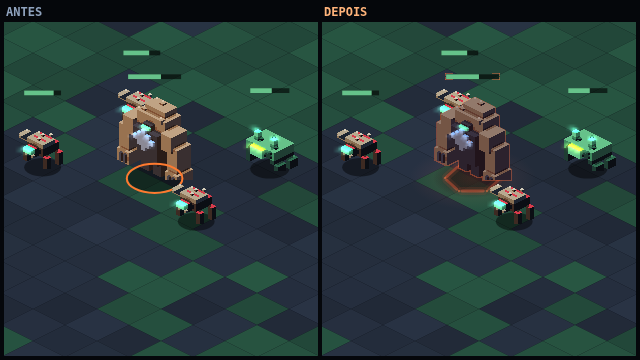
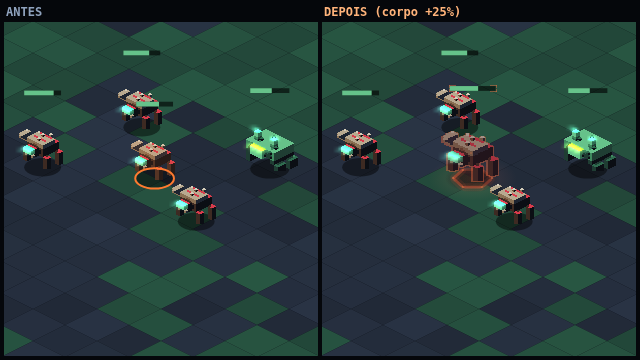
Elite com o corpo 25% maior
Silhueta maior e a leitura que chega ANTES da cor: pela borda do campo de
visao, com o bicho meio atras de uma coluna, antes de qualquer brasa
aparecer. E contra um bando do mesmo arquetipo — que e onde o elite quase
sempre esta — um corpo destoando de tamanho e o sinal mais barato que
existe.

Cresce so o CORPO: a sombra de contato e o hexagono no chao continuam no
tamanho do pe, porque o raio na simulacao nao mudou, e inchar a marca
junto faria ela prometer um alcance de contato que a simulacao nao cobra.
O que mora em cima do bicho — barra de vida e atordoamento — sobe com o
corpo, senao a barra atravessaria a cabeca do elite. O recuo de voxel
cresce pelo mesmo fator: um elite que muda de tamanho conforme o atlas
chegou seria a mesma incoerencia que a marca tracejada de antes.

O custo, registrado no codigo e no doc: 1,25 nao e inteiro, entao no zoom
2x o sprite do elite deixa de cair 1:1 na tela — alguns pixels de atlas
viram dois e outros um. E a unica coisa do jogo fora da grade de pixel, e
vale por ser uma entidade rara por setor; o degrau seguinte que preserva
a grade e 2x, grande demais para "elite".

O teste que ancora a guarda de `usesMonumentalBar` procurava a chamada da
barra pela expressao inteira do topo dela, que mudou com o corpo maior.
Passa a ancorar so no comeco da chamada: o que ele protege e a guarda em
volta, nao a conta que levanta a barra.

Claude-Session: https://claude.ai/code/session_01RJ5bdc3Wq4H9TobxteMHtW

diff --git a/packages/voxelyn-survival/src/client/render.ts b/packages/voxelyn-survival/src/client/render.ts
@@ -194,6 +194,7 @@ import { bossModuleNameKey, bossModulePresentation } from './boss-module-present
 import { DIAMANDIS_LINES, diamandisLineFor } from './audio/boss-voice-lines';
 import { drawGroundShadow, drawVoxel, type FaceRamp } from './voxel-draw';
 import {
+  ELITE_BODY_SCALE,
   drawEliteBarFrame,
   drawEliteFront,
   drawEliteGround,
@@ -5035,6 +5036,14 @@ export class SurvivalRenderer {
             ? { sx, sy, size, z, nowMs, seed: enemy.id, reducedMotion: prefersReducedMotion() }
             : null;
           if (eliteMark) drawEliteGround(ctx, eliteMark);
+          // O CORPO MAIOR (ver ELITE_BODY_SCALE). Duas escalas convivem daqui
+          // para baixo: `size`, que e o PE (sombra, hexagono — o raio real da
+          // simulacao, que o elite nao muda), e `bodySize`/`bodyZoom`, que sao o
+          // CORPO. Tudo que mora em cima do bicho — a barra de vida, o
+          // atordoamento — sobe com o corpo, senao a barra atravessaria a
+          // cabeca do elite.
+          const bodyZoom = enemy.elite ? spriteZoom * ELITE_BODY_SCALE : spriteZoom;
+          const bodySize = enemy.elite ? size * ELITE_BODY_SCALE : size;
           // O RECORTE NA LINHA DA AREIA, so para quem esta atravessando ela.
           //
           // O anel do corpo ja fazia isso; a cabeca nunca fez, e enquanto o
@@ -5135,7 +5144,7 @@ export class SurvivalRenderer {
               presented.elapsedMs,
               bodyX,
               bodyDrawY,
-              spriteZoom,
+              bodyZoom,
               // Um sheet de frames fixos nao sabe o humor da entidade, e o
               // mineiro enfurecido precisa ler como enfurecido A DISTANCIA. O
               // gancho de tint que ja existia para o elite serve exatamente para
@@ -5214,7 +5223,7 @@ export class SurvivalRenderer {
               presented.elapsedMs,
               bodyX,
               bodyDrawY,
-              spriteZoom,
+              bodyZoom,
               eliteRim(nowMs, enemy.id, eliteMark.reducedMotion),
             );
           }
@@ -5335,7 +5344,10 @@ export class SurvivalRenderer {
               sx,
               sy: drawY,
               z,
-              radius: enemy.radius,
+              // O recuo desenha o mesmo bicho que o atlas desenharia, entao
+              // cresce pelo mesmo fator: um elite que muda de tamanho conforme
+              // o atlas chegou seria a mesma incoerencia que a marca tracejada.
+              radius: enemy.elite ? enemy.radius * ELITE_BODY_SCALE : enemy.radius,
               brightness: b,
               archetype: enemy.archetype,
               nowMs,
@@ -5369,7 +5381,7 @@ export class SurvivalRenderer {
           }
           if (sand !== null) ctx.restore();
           if (enemy.stunnedUntil > state.tick) {
-            drawStunIndicator(ctx, sx, bodyY, size, z, enemy.id, state.tick);
+            drawStunIndicator(ctx, sx, bodyY, bodySize, z, enemy.id, state.tick);
           }
           // AS BRASAS QUE PASSAM NA FRENTE do corpo, fechando a marca. As de
           // tras ja sairam com o chao; separar as duas metades e o que da
@@ -5387,7 +5399,13 @@ export class SurvivalRenderer {
             !usesMonumentalBar(state, enemy) &&
             (!leviathanHead || leviathanTargetable(enemy, state.tick))
           ) {
-            drawHealthBar(sx, bodyY - size * 2.1 - 5 * z, size, enemy.hp / enemy.maxHp, eliteMark);
+            drawHealthBar(
+              sx,
+              bodyY - bodySize * 2.1 - 5 * z,
+              bodySize,
+              enemy.hp / enemy.maxHp,
+              eliteMark,
+            );
           }
         },
       });

diff --git a/packages/voxelyn-survival/src/client/elite-mark.ts b/packages/voxelyn-survival/src/client/elite-mark.ts
@@ -80,6 +80,30 @@ const EMBER = mixHex(PAL.blood, PAL.fire, 0.55);
 /** O topo da brasa, so nas faiscas: o unico ponto da marca que chega ao claro. */
 const SPARK = mixHex(PAL.fire, PAL.loot, 0.5);
 
+/**
+ * O CORPO DO ELITE, um quarto maior que o dos irmaos da mesma leva.
+ *
+ * E a leitura que chega ANTES da cor: silhueta maior se le pela borda do campo
+ * de visao, com o bicho meio atras de uma coluna, antes de qualquer brasa
+ * aparecer. Contra um bando do mesmo arquetipo — que e onde o elite quase
+ * sempre esta —, um corpo destoando de tamanho e o sinal mais barato que
+ * existe.
+ *
+ * Cresce so o CORPO. A sombra de contato e o hexagono no chao continuam no
+ * tamanho do pe, porque o raio dele na simulacao nao mudou: inchar a marca
+ * junto faria ela prometer um alcance de contato que a simulacao nao cobra.
+ * Um corpo grande sobre um pe do tamanho de sempre e, alias, o que os bichos
+ * pesados do jogo ja fazem.
+ *
+ * O CUSTO, registrado: 1,25 nao e inteiro, entao no zoom 2x do jogo o sprite
+ * deixa de cair 1:1 na tela e alguns pixels de atlas viram dois de tela e
+ * outros um. E a unica coisa no jogo fora da grade de pixel, e vale por ser
+ * exatamente UMA entidade rara por setor. Se um dia isso incomodar, o degrau
+ * seguinte que preserva a grade e 2x (o dobro), que e grande demais para
+ * "elite" e comecaria a ler como chefe.
+ */
+export const ELITE_BODY_SCALE = 1.25;
+
 /** Periodo da respiracao, em ms. Lento: um bicho grande respira devagar. */
 export const ELITE_BREATH_MS = 2600;
 /** Opacidade do tint no fundo da respiracao (carvao) e no alto dela (brasa). */

diff --git a/packages/voxelyn-survival/src/tests/boss-health-bar.test.ts b/packages/voxelyn-survival/src/tests/boss-health-bar.test.ts
@@ -145,7 +145,11 @@ describe('selecao do chefe', () => {
 
   it('render.ts guarda a barra local do inimigo com usesMonumentalBar', () => {
     const src = readFileSync(join(HERE, '..', 'client', 'render.ts'), 'utf8');
-    const call = src.indexOf('drawHealthBar(sx, bodyY - size * 2.1');
+    // Ancora no comeco da chamada, e nao na expressao inteira do topo da barra:
+    // ela mudou quando o corpo do elite passou a ser maior que o pe (`bodySize`),
+    // e o que este teste protege e a GUARDA em volta da chamada, nao a conta que
+    // levanta a barra.
+    const call = src.indexOf('drawHealthBar(\n              sx,');
     expect(call).toBeGreaterThan(0);
     const guard = src.lastIndexOf('usesMonumentalBar(state, enemy)', call);
     expect(guard).toBeGreaterThan(0);

diff --git a/docs/art/2026-09-10-marca-de-elite.md b/docs/art/2026-09-10-marca-de-elite.md
@@ -33,6 +33,7 @@ corpo em vez de efeitos empilhados:
 
 | Camada                                                 | O que conta                                                                                                                                                                                                                                                                                                                                                                                                                                                                                                                                       |
 | ------------------------------------------------------ | ------------------------------------------------------------------------------------------------------------------------------------------------------------------------------------------------------------------------------------------------------------------------------------------------------------------------------------------------------------------------------------------------------------------------------------------------------------------------------------------------------------------------------------------------- |
+| **Corpo maior** (`ELITE_BODY_SCALE`)                   | O corpo é desenhado 25% maior que o dos irmãos da mesma leva — a leitura que chega **antes da cor**, pela borda do campo de visão e com o bicho meio atrás de uma coluna. Cresce só o corpo: a sombra de contato e o hexágono continuam no tamanho do pé, porque o raio na simulação não mudou e inchar a marca prometeria um alcance de contato que a simulação não cobra.                                                                                                                                                                       |
 | **Corpo carbonizado** (`eliteTint`)                    | O tint deixa de clarear e passa a **escurecer**: carvão com sangue seco no fundo da respiração, brasa viva no alto. Contra os irmãos da mesma leva, o elite é o vulto mais escuro e mais quente da tela — contraste de valor funciona a qualquer distância.                                                                                                                                                                                                                                                                                       |
 | **Contorno aceso** (`SpriteBank.drawEntityRim`)        | A silhueta carimbada 1 px de atlas para os lados e para **baixo**, nunca para cima. Fechar o contorno devolveria o brilho de "unidade selecionada"; deixando o topo no escuro, a mesma passada vira **luz vinda de baixo** — do chão que está queimando sob ele.                                                                                                                                                                                                                                                                                  |
 | **Chão estragado** (`drawEliteGround`)                 | Poça de fuligem que come a luz do piso, luz de brasa **aditiva** por cima dela e um **hexágono queimado**: seis riscos de brasa com as quinas abertas, parado, cada lado tremulando no seu próprio tempo. Seis lados retos são da família do losango do tile e da faceta do voxel — a elipse lisa era a única curva perfeita da tela, e por isso lia como interface. Não gira: hexágono girando é runa de magia; parado e alinhado à grade, é coisa queimada no chão. O raio é o mesmo do anel antigo: a marca continua medindo a célula ocupada. |
@@ -55,6 +56,14 @@ corpo em vez de efeitos empilhados:
   anel para de girar e as brasas congelam espalhadas: continua havendo elite na
   tela, só não há pulso.
 - **Co-op.** Tudo deriva do relógio e do ID da criatura — nada sorteado por quadro.
+
+### O custo registrado: a grade de pixel
+
+`ELITE_BODY_SCALE = 1.25` não é inteiro, então no zoom 2× o sprite do elite deixa
+de cair 1:1 na tela: alguns pixels de atlas viram dois de tela e outros um. É a
+única coisa do jogo fora da grade de pixel, e vale por ser **uma entidade rara por
+setor**. O degrau seguinte que preservaria a grade é 2× — grande demais para
+"elite", começaria a ler como chefe.
 
 ## Onde mexer
 
